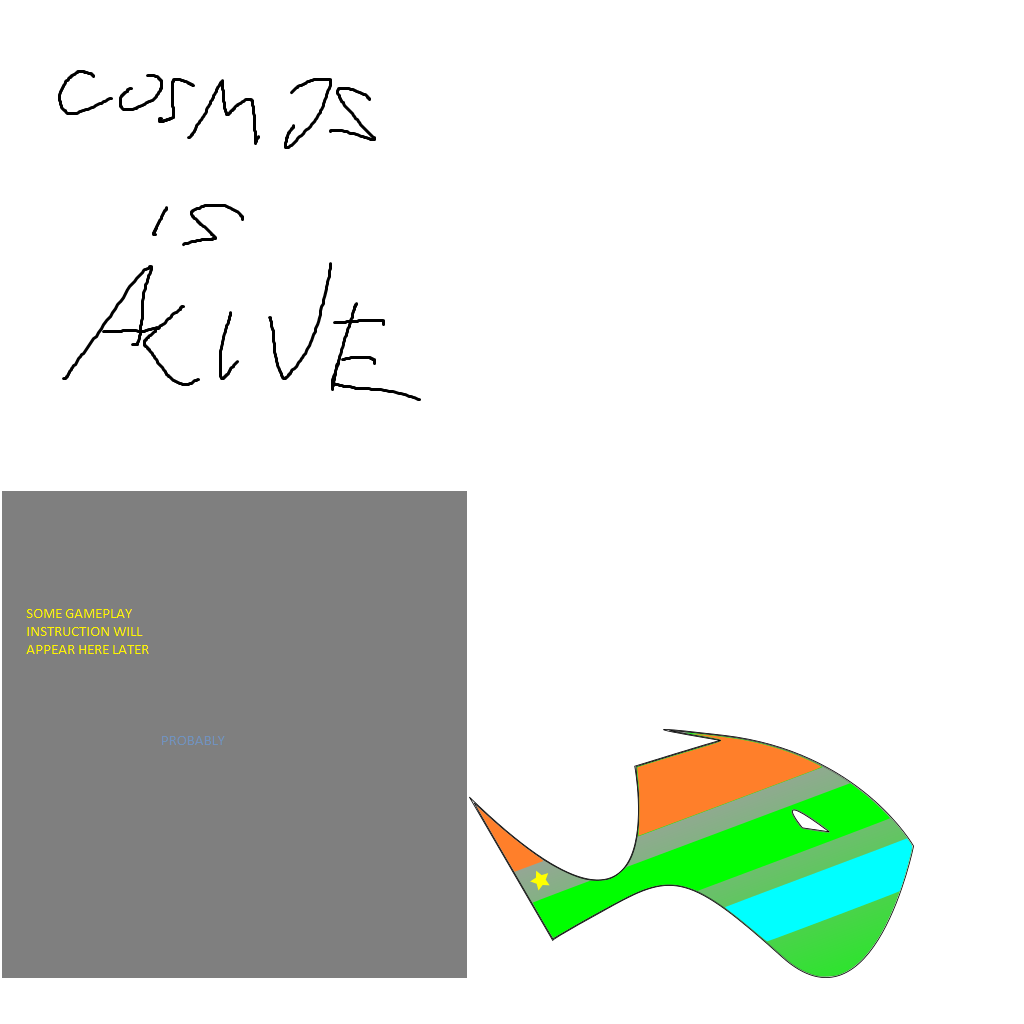
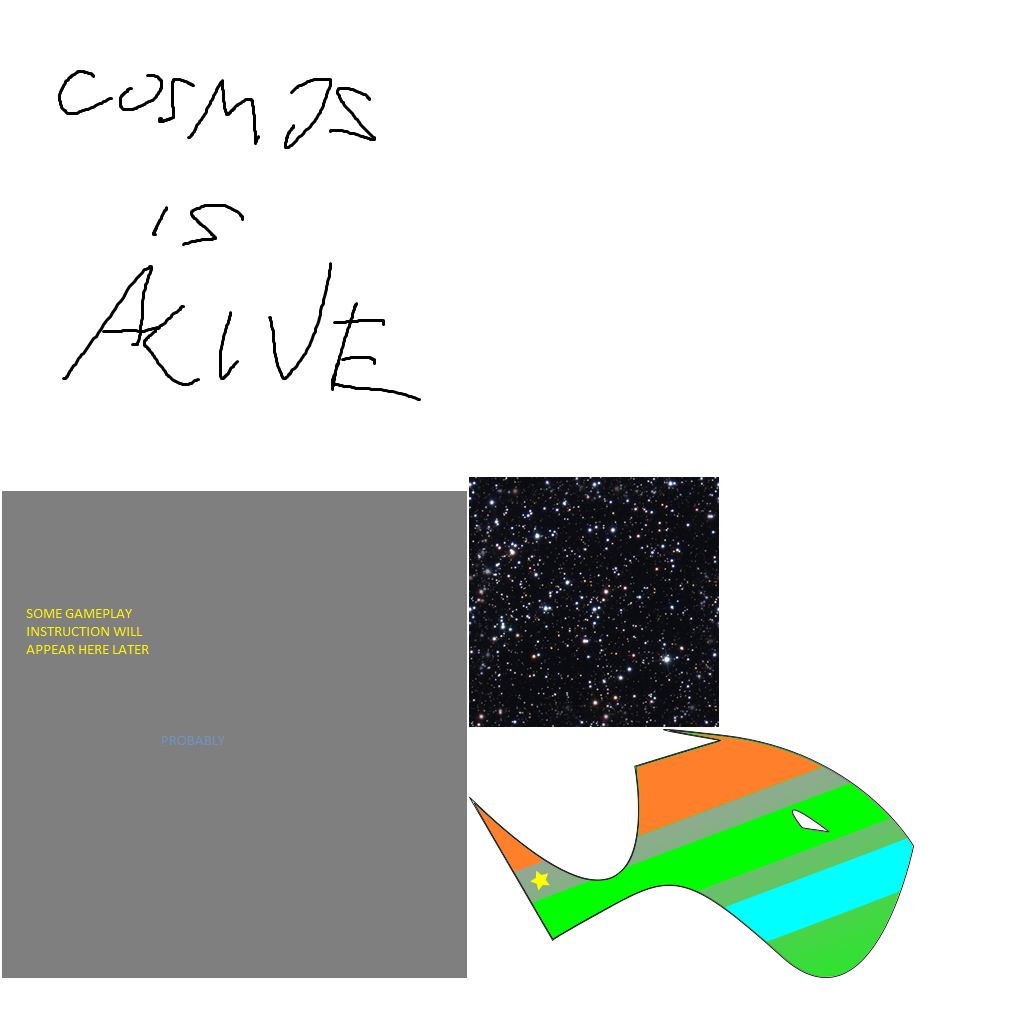
Render skybox with stars.

Changed region(s): [[0.4375, 0.4688, 0.7188, 0.7188]]

diff --git a/core/src/net/namekdev/cosmos_is_alive/factory/EntityFactory.java b/core/src/net/namekdev/cosmos_is_alive/factory/EntityFactory.java
@@ -30,17 +30,58 @@ public class EntityFactory extends PassiveSystem {
 		Entity player = world.createEntity();
 		EntityEdit e = player.edit();
 		tags.register(Tags.Player, player);
-		
-		e.create(Renderable.class).type = Renderable.DECAL;
-		e.create(DecalComponent.class)
-			.set(createDecal(assets.playerTex, C.Player.Width, C.Player.Height))
-			.lookAtCamera = false;
+
+		setDecal(e, assets.playerTex, C.Player.Width, C.Player.Height);
 		e.create(Transform.class).xyz(0, 0, -1);
 
 		return player;
 	}
+
+	public void createStars() {
+		Entity stars = null;
+		EntityEdit e = null;
+		
+		final float mapWidth = C.World.BoxWidth;
+		final float mapHeight = C.World.BoxHeight;
+
+		// front
+		stars = world.createEntity();
+		e = stars.edit();
+		setDecal(e, assets.stars, mapWidth, mapHeight);
+		xyz(e, 0, 0, -mapWidth/2);
+		
+		// left
+		stars = world.createEntity();
+		e = stars.edit();
+		setDecal(e, assets.stars, mapWidth, mapHeight);
+		xyz(e, -mapWidth/2, 0, 0).look(1, 0, 0);
+		
+		// right
+		stars = world.createEntity();
+		e = stars.edit();
+		setDecal(e, assets.stars, mapWidth, mapHeight);
+		xyz(e, mapWidth/2, 0, 0).look(-1, 0, 0);
+		
+		// back
+		stars = world.createEntity();
+		e = stars.edit();
+		setDecal(e, assets.stars, mapWidth, mapHeight);
+		xyz(e, 0, 0, mapWidth/2).look(0, 0, 1);
+		
+		// bottom
+		stars = world.createEntity();
+		e = stars.edit();
+		setDecal(e, assets.stars, mapWidth, mapHeight);
+		xyz(e, 0, -mapWidth/2, 0).look(0, 1, 0);
+		
+		// up
+		stars = world.createEntity();
+		e = stars.edit();
+		setDecal(e, assets.stars, mapWidth, mapHeight);
+		xyz(e, 0, mapWidth/2, 0).look(0, -1, 0);
+	}
 	
-	Decal createDecal(TextureRegion texture, float width, float height) {
+	public static Decal createDecal(TextureRegion texture, float width, float height) {
 		Decal decal = new Decal();
 		decal.setTextureRegion(texture);
 		decal.setBlending(GL20.GL_SRC_ALPHA, GL20.GL_ONE_MINUS_SRC_ALPHA);
@@ -48,5 +89,17 @@ public class EntityFactory extends PassiveSystem {
 		decal.setColor(1, 1, 1, 1);
 
 		return decal;
+	}
+	
+	public static DecalComponent setDecal(EntityEdit e, TextureRegion texture, float width, float height) {
+		e.create(Renderable.class).type = Renderable.DECAL;
+
+		return e.create(DecalComponent.class)
+			.set(createDecal(texture, width, height));
+	}
+	
+	public static Transform xyz(EntityEdit e, float x, float y, float z) {
+		return e.create(Transform.class)
+			.xyz(x, y, z);
 	}
 }

diff --git a/core/src/net/namekdev/cosmos_is_alive/screen/GameScreen.java b/core/src/net/namekdev/cosmos_is_alive/screen/GameScreen.java
@@ -15,6 +15,7 @@ import net.namekdev.cosmos_is_alive.manager.AspectHelpers;
 import net.namekdev.cosmos_is_alive.manager.WorldInitManager;
 import net.namekdev.cosmos_is_alive.system.CameraSystem;
 import net.namekdev.cosmos_is_alive.system.GameStateSystem;
+import net.namekdev.cosmos_is_alive.system.InputSystem;
 import net.namekdev.cosmos_is_alive.system.PlayerStateSystem;
 import net.namekdev.cosmos_is_alive.system.SchedulerSystem;
 import net.namekdev.cosmos_is_alive.system.TweenSystem;
@@ -52,6 +53,7 @@ public class GameScreen extends BaseScreen<GameScreen> {
 			.with(new TagManager())
 
 			// loop systems
+			.with(new InputSystem())
 			.with(new TweenSystem())
 			.with(new GameStateSystem())
 			.with(new PlayerStateSystem())

diff --git a/core/src/net/namekdev/cosmos_is_alive/component/render/DecalComponent.java b/core/src/net/namekdev/cosmos_is_alive/component/render/DecalComponent.java
@@ -9,7 +9,7 @@ public class DecalComponent extends PooledComponent {
 	public Decal decal;
 	
 	/** Ignore {@link Transform#orientation} by looking at camera. */
-	public boolean lookAtCamera = true;
+	public boolean lookAtCamera = false;
 	
 	public DecalComponent set(Decal decal) {
 		this.decal = decal;
@@ -19,6 +19,6 @@ public class DecalComponent extends PooledComponent {
 	@Override
 	protected void reset() {
 		decal = null;
-		lookAtCamera = true;
+		lookAtCamera = false;
 	}
 }

diff --git a/core/src/net/namekdev/cosmos_is_alive/Assets.java b/core/src/net/namekdev/cosmos_is_alive/Assets.java
@@ -15,6 +15,7 @@ public class Assets {
 	public TextureRegion intro;
 	public TextureRegion instruction;
 	public TextureRegion playerTex;
+	public TextureRegion stars;
 
 	
 
@@ -29,6 +30,7 @@ public class Assets {
 		intro = textures.findRegion("intro");
 		instruction = textures.findRegion("instruction");
 		playerTex = textures.findRegion("star_fish");
+		stars = textures.findRegion("stars");
 	}
 
 }

diff --git a/core/src/net/namekdev/cosmos_is_alive/system/base/render/RenderSystem.java b/core/src/net/namekdev/cosmos_is_alive/system/base/render/RenderSystem.java
@@ -152,7 +152,8 @@ public class RenderSystem extends BaseEntitySystem {
 		lastRenderer = null;
 
 		final long[] metas = sorted.items;
-		for (int i = 0, n = sorted.size; i < n; ++i) {
+		final int n = sorted.size;
+		for (int i = 0; i < n; ++i) {
 			final int e = (int)(metas[i] & ((1 << ENTITY_ID_BITS_COUNT) - 1));
 
 			Renderable renderable = mRenderable.get(e);

diff --git a/core/src/net/namekdev/cosmos_is_alive/manager/WorldInitManager.java b/core/src/net/namekdev/cosmos_is_alive/manager/WorldInitManager.java
@@ -13,9 +13,9 @@ public class WorldInitManager extends BaseSystem {
 	
 
 	private void init() {
+		factory.createStars();
 		factory.createPlayer(150, 200);
 
-		// TODO create your stuff
 	}
 
 	@Override

diff --git a/core/src/net/namekdev/cosmos_is_alive/enums/C.java b/core/src/net/namekdev/cosmos_is_alive/enums/C.java
@@ -14,7 +14,8 @@ public interface C {
 	}
 	
 	public interface World {
-		
+		public static final float BoxWidth = 256*4;
+		public static final float BoxHeight = 256*4;
 	}
 	
 	public interface Levels {
